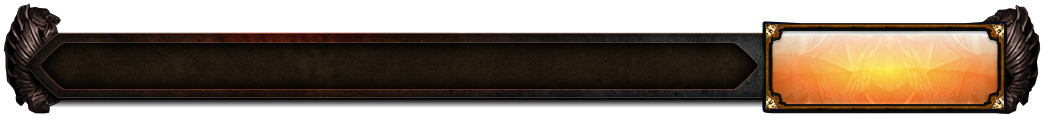
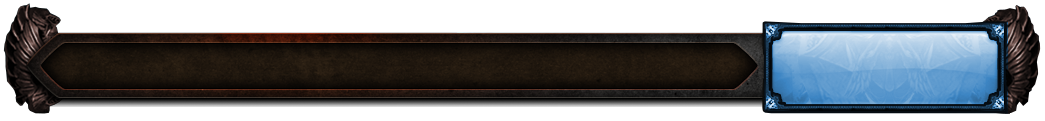
Home

Changed region(s): [[0.7349, 0.1983, 0.9799, 0.9174]]

diff --git a/src/App.vue b/src/App.vue
@@ -55,17 +55,18 @@ img{
 }
 #registro{
   height: 45px;
-  background-color: rgb(79, 39, 189);
+  background-color: rgb(27, 75, 172);
   justify-content: center;
 }
 #banner{
+  margin-top:50px;
   width: 100%;
 }
 #tabla{
-  width: 100%;
+  width: 85%;
   margin-top: 10px;
   padding: 0;
-  margin-left: 250px;
+  margin-left: 200px;
   line-height: 60px;
   color: white;
   font-size: 14px;
@@ -84,11 +85,12 @@ img{
 }
 
 #body{
- margin-left: 80px;
  background: url(./assets/background.jpg);
  width: 100%;
  height: 100%;
  color: black;
+ background-repeat: no-repeat;
+ background-color:black;
 }
 #registro{
   text-align: right;
